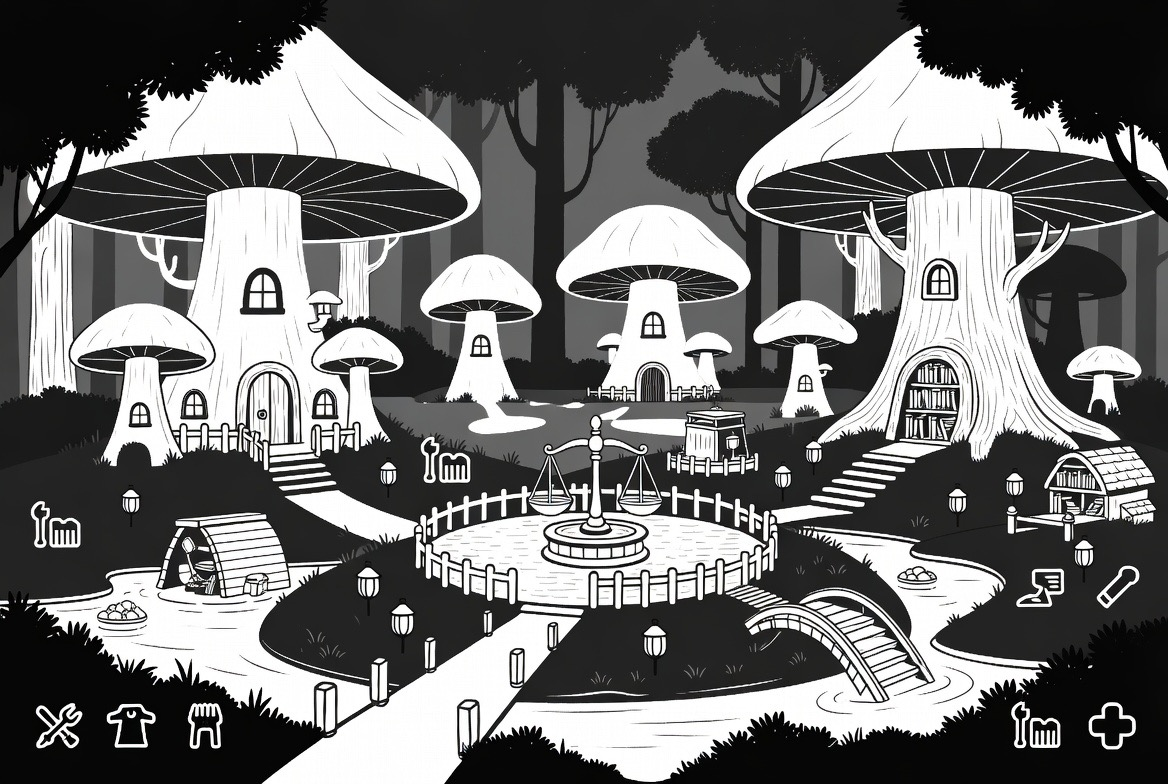
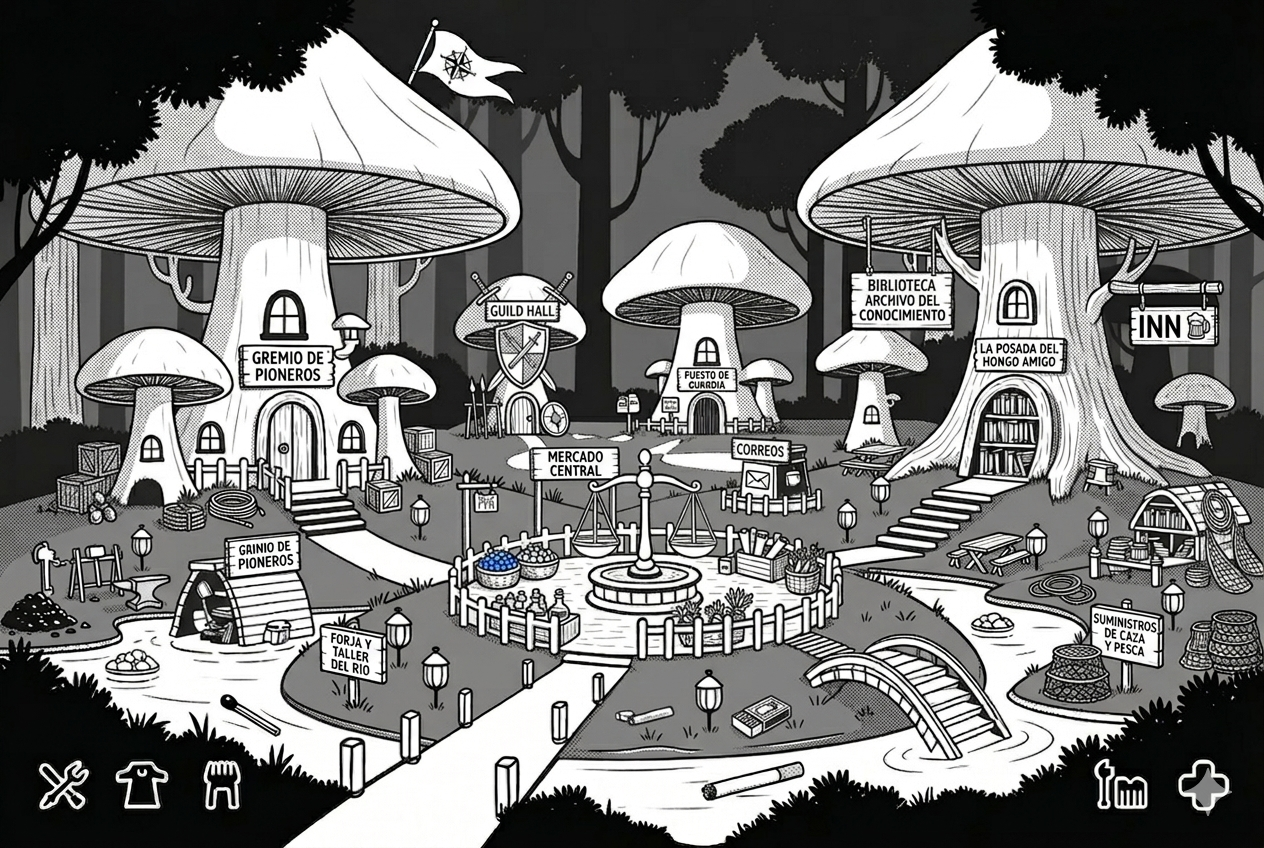
feat: update map image and adjust hotspots for new Spanish labels
Replace background image and align hotspots with new map labels

diff --git a/app/src/components/VillageMap.tsx b/app/src/components/VillageMap.tsx
@@ -20,76 +20,85 @@ interface Building {
 
 const BUILDINGS: Building[] = [
   {
-    // Balanza en el centro de la plaza
-    id: "marketplace",
-    name: "Plaza Central",
-    description: "Marketplace",
-    href: "/orchestrate",
-    position: { top: "50%", left: "44%", width: "14%", height: "14%" },
-    accentColor: "var(--terere)",
-  },
-  {
-    // Hongo grande con puerta y ventana, izquierda
-    id: "mission-center",
-    name: "Casa-Hongo Grande",
-    description: "Mission Center",
-    href: "/orchestrate",
-    position: { top: "28%", left: "10%", width: "20%", height: "22%" },
+    // Cartel "Gremio de Pioneros" — hongo grande izquierda, puerta arqueada
+    id: "gremio",
+    name: "Gremio de Pioneros",
+    description: "Pioneer guild & squads",
+    href: "/squads/code-forge",
+    position: { top: "30%", left: "5%", width: "22%", height: "24%" },
     accentColor: "var(--yerba)",
   },
   {
-    // Arbol con estantes de libros, derecha
-    id: "library",
-    name: "Arbol-Biblioteca",
-    description: "Library & Onboarding",
-    href: "/onboarding",
-    position: { top: "18%", left: "72%", width: "20%", height: "28%" },
-    accentColor: "var(--blue)",
-  },
-  {
-    // Hongo pequeno centro-derecha, detras de la plaza
-    id: "inn",
-    name: "Inn",
-    description: "Team headquarters",
-    href: "/teams/1",
-    position: { top: "22%", left: "53%", width: "12%", height: "14%" },
-    accentColor: "var(--pink)",
-  },
-  {
-    // Baul/cofre azul a la derecha de la balanza
-    id: "post-office",
-    name: "Oficina de Correos",
-    description: "Messages & notifications",
-    href: "/inbox",
-    position: { top: "40%", left: "63%", width: "8%", height: "10%" },
-    accentColor: "var(--pink)",
-  },
-  {
-    // Cabanita con pozo, izquierda media
-    id: "workshop",
-    name: "Workshop",
-    description: "Squad tools & forge",
-    href: "/squads/code-forge",
-    position: { top: "46%", left: "22%", width: "12%", height: "12%" },
-    accentColor: "var(--terere)",
-  },
-  {
-    // Casita abajo izquierda con herramientas
-    id: "immigration",
-    name: "Oficina Inmigratos",
-    description: "Register & paperwork",
-    href: "/inbox",
-    position: { top: "65%", left: "8%", width: "16%", height: "18%" },
-    accentColor: "var(--blue)",
-  },
-  {
-    // Estructura con puente abajo derecha
+    // Cartel "Guild Hall" — hongo central con escudo y banderas de espadas
     id: "guild-hall",
     name: "Guild Hall",
     description: "Register your agent",
     href: "/register",
-    position: { top: "64%", left: "70%", width: "18%", height: "18%" },
-    accentColor: "var(--yerba)",
+    position: { top: "18%", left: "34%", width: "16%", height: "20%" },
+    accentColor: "var(--terere)",
+  },
+  {
+    // Cartel "Biblioteca Archivo del Conocimiento" — centro-derecha
+    id: "library",
+    name: "Biblioteca",
+    description: "Archivo del Conocimiento",
+    href: "/onboarding",
+    position: { top: "22%", left: "57%", width: "18%", height: "18%" },
+    accentColor: "var(--blue)",
+  },
+  {
+    // Cartel "INN" — arbol tronco derecha con ventana y cerveza
+    id: "inn",
+    name: "INN",
+    description: "La Posada del Hongo Amigo",
+    href: "/teams/1",
+    position: { top: "20%", left: "80%", width: "16%", height: "22%" },
+    accentColor: "var(--pink)",
+  },
+  {
+    // Cartel "Puesto de Guardia" — hongo pequeno central con puerta
+    id: "puesto-guardia",
+    name: "Puesto de Guardia",
+    description: "Mission operations",
+    href: "/orchestrate",
+    position: { top: "32%", left: "44%", width: "12%", height: "16%" },
+    accentColor: "var(--terere)",
+  },
+  {
+    // Cartel "Mercado Central" — la balanza, corazon de la plaza
+    id: "marketplace",
+    name: "Mercado Central",
+    description: "Marketplace",
+    href: "/orchestrate",
+    position: { top: "44%", left: "33%", width: "14%", height: "14%" },
+    accentColor: "var(--terere)",
+  },
+  {
+    // Cartel "Correos" — buzon/caja de correos centro-derecha de la plaza
+    id: "correos",
+    name: "Correos",
+    description: "Messages & notifications",
+    href: "/inbox",
+    position: { top: "44%", left: "54%", width: "10%", height: "12%" },
+    accentColor: "var(--pink)",
+  },
+  {
+    // Cartel "Forja y Taller del Rio" — area de forja abajo izquierda
+    id: "forja",
+    name: "Forja y Taller del Rio",
+    description: "Craft & build tools",
+    href: "/squads/code-forge",
+    position: { top: "60%", left: "22%", width: "16%", height: "14%" },
+    accentColor: "var(--terere)",
+  },
+  {
+    // Cartel "Suministros de Caza y Pesca" — abajo derecha junto al puente
+    id: "suministros",
+    name: "Suministros",
+    description: "Caza y Pesca",
+    href: "/inbox",
+    position: { top: "60%", left: "72%", width: "16%", height: "14%" },
+    accentColor: "var(--blue)",
   },
 ];
 
